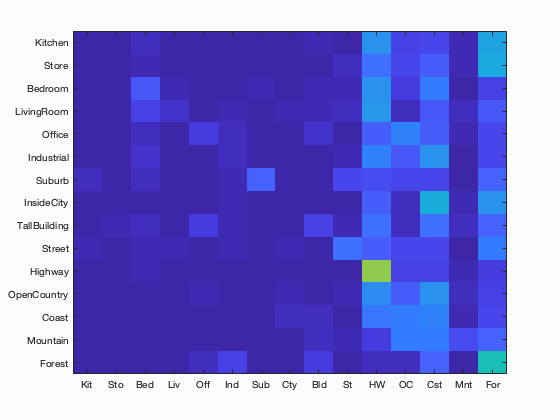
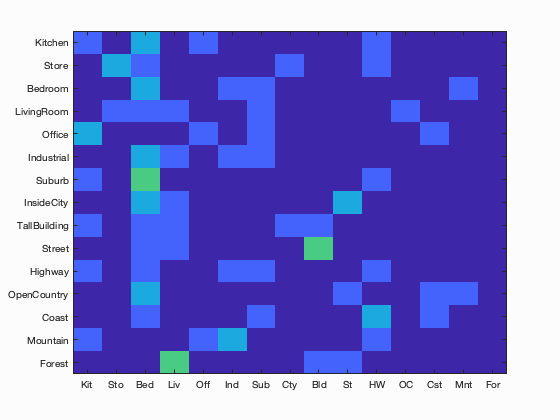
updating files

diff --git a/code/results_webpage/index.html b/code/results_webpage/index.html
@@ -36,7 +36,7 @@ h1 {
 <img src="confusion_matrix.png">
 
 <br>
-Accuracy (mean of diagonal of confusion matrix) is 0.176
+Accuracy (mean of diagonal of confusion matrix) is 0.147
 <p>
 
 <table border=0 cellpadding=4 cellspacing=1>
@@ -50,183 +50,183 @@ Accuracy (mean of diagonal of confusion matrix) is 0.176
 </tr>
 <tr>
 <td>Kitchen</td>
-<td>0.000</td>
-<td bgcolor=LightBlue><img src="thumbnails/Kitchen_image_0013.jpg" width=100 height=75></td>
-<td bgcolor=LightBlue><img src="thumbnails/Kitchen_image_0087.jpg" width=114 height=75></td>
+<td>0.200</td>
+<td bgcolor=LightBlue><img src="thumbnails/Kitchen_image_0004.jpg" width=100 height=75></td>
+<td bgcolor=LightBlue><img src="thumbnails/Kitchen_image_0005.jpg" width=100 height=75></td>
+<td bgcolor=LightGreen><img src="thumbnails/Kitchen_image_0003.jpg" width=100 height=75></td>
 <td bgcolor=LightGreen></td>
-<td bgcolor=LightGreen></td>
-<td bgcolor=LightCoral><img src="thumbnails/Street_image_0041.jpg" width=75 height=75><br><small>Street</small></td>
-<td bgcolor=LightCoral><img src="thumbnails/Suburb_image_0050.jpg" width=113 height=75><br><small>Suburb</small></td>
-<td bgcolor=#FFBB55><img src="thumbnails/Kitchen_image_0068.jpg" width=113 height=75><br><small>Coast</small></td>
-<td bgcolor=#FFBB55><img src="thumbnails/Kitchen_image_0002.jpg" width=100 height=75><br><small>Mountain</small></td>
+<td bgcolor=LightCoral><img src="thumbnails/Mountain_image_0004.jpg" width=75 height=75><br><small>Mountain</small></td>
+<td bgcolor=LightCoral><img src="thumbnails/Office_image_0001.jpg" width=101 height=75><br><small>Office</small></td>
+<td bgcolor=#FFBB55><img src="thumbnails/Kitchen_image_0002.jpg" width=100 height=75><br><small>Bedroom</small></td>
+<td bgcolor=#FFBB55><img src="thumbnails/Kitchen_image_0008.jpg" width=100 height=75><br><small>Office</small></td>
 </tr>
 <tr>
 <td>Store</td>
-<td>0.000</td>
-<td bgcolor=LightBlue><img src="thumbnails/Store_image_0101.jpg" width=100 height=75></td>
-<td bgcolor=LightBlue><img src="thumbnails/Store_image_0110.jpg" width=100 height=75></td>
-<td bgcolor=LightGreen></td>
-<td bgcolor=LightGreen></td>
-<td bgcolor=LightCoral><img src="thumbnails/TallBuilding_image_0048.jpg" width=75 height=75><br><small>TallBuilding</small></td>
+<td>0.400</td>
+<td bgcolor=LightBlue><img src="thumbnails/Store_image_0005.jpg" width=100 height=75></td>
+<td bgcolor=LightBlue><img src="thumbnails/Store_image_0001.jpg" width=100 height=75></td>
+<td bgcolor=LightGreen><img src="thumbnails/Store_image_0009.jpg" width=100 height=75></td>
+<td bgcolor=LightGreen><img src="thumbnails/Store_image_0002.jpg" width=100 height=75></td>
+<td bgcolor=LightCoral><img src="thumbnails/LivingRoom_image_0005.jpg" width=93 height=75><br><small>LivingRoom</small></td>
 <td bgcolor=LightCoral></td>
-<td bgcolor=#FFBB55><img src="thumbnails/Store_image_0002.jpg" width=100 height=75><br><small>OpenCountry</small></td>
-<td bgcolor=#FFBB55><img src="thumbnails/Store_image_0039.jpg" width=57 height=75><br><small>Forest</small></td>
+<td bgcolor=#FFBB55><img src="thumbnails/Store_image_0004.jpg" width=60 height=75><br><small>Bedroom</small></td>
+<td bgcolor=#FFBB55><img src="thumbnails/Store_image_0003.jpg" width=100 height=75><br><small>InsideCity</small></td>
 </tr>
 <tr>
 <td>Bedroom</td>
-<td>0.160</td>
-<td bgcolor=LightBlue><img src="thumbnails/Bedroom_image_0041.jpg" width=118 height=75></td>
-<td bgcolor=LightBlue><img src="thumbnails/Bedroom_image_0105.jpg" width=110 height=75></td>
-<td bgcolor=LightGreen><img src="thumbnails/Bedroom_image_0024.jpg" width=95 height=75></td>
-<td bgcolor=LightGreen><img src="thumbnails/Bedroom_image_0014.jpg" width=101 height=75></td>
-<td bgcolor=LightCoral><img src="thumbnails/Store_image_0068.jpg" width=100 height=75><br><small>Store</small></td>
-<td bgcolor=LightCoral><img src="thumbnails/Office_image_0037.jpg" width=108 height=75><br><small>Office</small></td>
-<td bgcolor=#FFBB55><img src="thumbnails/Bedroom_image_0052.jpg" width=103 height=75><br><small>Coast</small></td>
-<td bgcolor=#FFBB55><img src="thumbnails/Bedroom_image_0068.jpg" width=74 height=75><br><small>Highway</small></td>
+<td>0.400</td>
+<td bgcolor=LightBlue><img src="thumbnails/Bedroom_image_0001.jpg" width=101 height=75></td>
+<td bgcolor=LightBlue><img src="thumbnails/Bedroom_image_0005.jpg" width=93 height=75></td>
+<td bgcolor=LightGreen><img src="thumbnails/Bedroom_image_0007.jpg" width=101 height=75></td>
+<td bgcolor=LightGreen><img src="thumbnails/Bedroom_image_0006.jpg" width=113 height=75></td>
+<td bgcolor=LightCoral><img src="thumbnails/Kitchen_image_0009.jpg" width=100 height=75><br><small>Kitchen</small></td>
+<td bgcolor=LightCoral><img src="thumbnails/Coast_image_0004.jpg" width=75 height=75><br><small>Coast</small></td>
+<td bgcolor=#FFBB55><img src="thumbnails/Bedroom_image_0008.jpg" width=113 height=75><br><small>Mountain</small></td>
+<td bgcolor=#FFBB55><img src="thumbnails/Bedroom_image_0003.jpg" width=104 height=75><br><small>Industrial</small></td>
 </tr>
 <tr>
 <td>LivingRoom</td>
-<td>0.060</td>
-<td bgcolor=LightBlue><img src="thumbnails/LivingRoom_image_0091.jpg" width=110 height=75></td>
-<td bgcolor=LightBlue><img src="thumbnails/LivingRoom_image_0038.jpg" width=99 height=75></td>
-<td bgcolor=LightGreen><img src="thumbnails/LivingRoom_image_0024.jpg" width=100 height=75></td>
-<td bgcolor=LightGreen><img src="thumbnails/LivingRoom_image_0003.jpg" width=114 height=75></td>
-<td bgcolor=LightCoral><img src="thumbnails/Bedroom_image_0021.jpg" width=113 height=75><br><small>Bedroom</small></td>
-<td bgcolor=LightCoral><img src="thumbnails/Street_image_0046.jpg" width=75 height=75><br><small>Street</small></td>
-<td bgcolor=#FFBB55><img src="thumbnails/LivingRoom_image_0050.jpg" width=107 height=75><br><small>Coast</small></td>
-<td bgcolor=#FFBB55><img src="thumbnails/LivingRoom_image_0037.jpg" width=113 height=75><br><small>Highway</small></td>
+<td>0.200</td>
+<td bgcolor=LightBlue><img src="thumbnails/LivingRoom_image_0006.jpg" width=113 height=75></td>
+<td bgcolor=LightBlue><img src="thumbnails/LivingRoom_image_0012.jpg" width=101 height=75></td>
+<td bgcolor=LightGreen><img src="thumbnails/LivingRoom_image_0002.jpg" width=100 height=75></td>
+<td bgcolor=LightGreen></td>
+<td bgcolor=LightCoral><img src="thumbnails/Street_image_0010.jpg" width=75 height=75><br><small>Street</small></td>
+<td bgcolor=LightCoral><img src="thumbnails/Forest_image_0001.jpg" width=75 height=75><br><small>Forest</small></td>
+<td bgcolor=#FFBB55><img src="thumbnails/LivingRoom_image_0005.jpg" width=93 height=75><br><small>Store</small></td>
+<td bgcolor=#FFBB55><img src="thumbnails/LivingRoom_image_0003.jpg" width=114 height=75><br><small>Bedroom</small></td>
 </tr>
 <tr>
 <td>Office</td>
-<td>0.080</td>
-<td bgcolor=LightBlue><img src="thumbnails/Office_image_0031.jpg" width=96 height=75></td>
-<td bgcolor=LightBlue><img src="thumbnails/Office_image_0042.jpg" width=118 height=75></td>
-<td bgcolor=LightGreen><img src="thumbnails/Office_image_0022.jpg" width=102 height=75></td>
-<td bgcolor=LightGreen><img src="thumbnails/Office_image_0023.jpg" width=90 height=75></td>
-<td bgcolor=LightCoral><img src="thumbnails/TallBuilding_image_0004.jpg" width=75 height=75><br><small>TallBuilding</small></td>
-<td bgcolor=LightCoral><img src="thumbnails/TallBuilding_image_0059.jpg" width=75 height=75><br><small>TallBuilding</small></td>
-<td bgcolor=#FFBB55><img src="thumbnails/Office_image_0044.jpg" width=100 height=75><br><small>Highway</small></td>
-<td bgcolor=#FFBB55><img src="thumbnails/Office_image_0071.jpg" width=104 height=75><br><small>OpenCountry</small></td>
+<td>0.200</td>
+<td bgcolor=LightBlue><img src="thumbnails/Office_image_0008.jpg" width=130 height=75></td>
+<td bgcolor=LightBlue><img src="thumbnails/Office_image_0013.jpg" width=92 height=75></td>
+<td bgcolor=LightGreen><img src="thumbnails/Office_image_0005.jpg" width=126 height=75></td>
+<td bgcolor=LightGreen></td>
+<td bgcolor=LightCoral><img src="thumbnails/Mountain_image_0005.jpg" width=75 height=75><br><small>Mountain</small></td>
+<td bgcolor=LightCoral><img src="thumbnails/Kitchen_image_0008.jpg" width=100 height=75><br><small>Kitchen</small></td>
+<td bgcolor=#FFBB55><img src="thumbnails/Office_image_0004.jpg" width=118 height=75><br><small>Coast</small></td>
+<td bgcolor=#FFBB55><img src="thumbnails/Office_image_0001.jpg" width=101 height=75><br><small>Kitchen</small></td>
 </tr>
 <tr>
 <td>Industrial</td>
-<td>0.040</td>
-<td bgcolor=LightBlue><img src="thumbnails/Industrial_image_0086.jpg" width=112 height=75></td>
-<td bgcolor=LightBlue><img src="thumbnails/Industrial_image_0051.jpg" width=94 height=75></td>
-<td bgcolor=LightGreen><img src="thumbnails/Industrial_image_0035.jpg" width=77 height=75></td>
-<td bgcolor=LightGreen><img src="thumbnails/Industrial_image_0026.jpg" width=97 height=75></td>
-<td bgcolor=LightCoral><img src="thumbnails/LivingRoom_image_0025.jpg" width=57 height=76><br><small>LivingRoom</small></td>
-<td bgcolor=LightCoral><img src="thumbnails/Forest_image_0035.jpg" width=75 height=75><br><small>Forest</small></td>
-<td bgcolor=#FFBB55><img src="thumbnails/Industrial_image_0032.jpg" width=100 height=75><br><small>Coast</small></td>
-<td bgcolor=#FFBB55><img src="thumbnails/Industrial_image_0040.jpg" width=135 height=75><br><small>Coast</small></td>
+<td>0.200</td>
+<td bgcolor=LightBlue><img src="thumbnails/Industrial_image_0011.jpg" width=50 height=75></td>
+<td bgcolor=LightBlue><img src="thumbnails/Industrial_image_0010.jpg" width=117 height=75></td>
+<td bgcolor=LightGreen><img src="thumbnails/Industrial_image_0006.jpg" width=114 height=75></td>
+<td bgcolor=LightGreen></td>
+<td bgcolor=LightCoral><img src="thumbnails/Mountain_image_0001.jpg" width=75 height=75><br><small>Mountain</small></td>
+<td bgcolor=LightCoral><img src="thumbnails/Mountain_image_0006.jpg" width=75 height=75><br><small>Mountain</small></td>
+<td bgcolor=#FFBB55><img src="thumbnails/Industrial_image_0003.jpg" width=50 height=75><br><small>Bedroom</small></td>
+<td bgcolor=#FFBB55><img src="thumbnails/Industrial_image_0007.jpg" width=117 height=75><br><small>Suburb</small></td>
 </tr>
 <tr>
 <td>Suburb</td>
-<td>0.200</td>
-<td bgcolor=LightBlue><img src="thumbnails/Suburb_image_0035.jpg" width=113 height=75></td>
-<td bgcolor=LightBlue><img src="thumbnails/Suburb_image_0049.jpg" width=113 height=75></td>
-<td bgcolor=LightGreen><img src="thumbnails/Suburb_image_0045.jpg" width=113 height=75></td>
-<td bgcolor=LightGreen><img src="thumbnails/Suburb_image_0046.jpg" width=113 height=75></td>
-<td bgcolor=LightCoral><img src="thumbnails/Bedroom_image_0082.jpg" width=121 height=75><br><small>Bedroom</small></td>
-<td bgcolor=LightCoral></td>
-<td bgcolor=#FFBB55><img src="thumbnails/Suburb_image_0059.jpg" width=113 height=75><br><small>Street</small></td>
-<td bgcolor=#FFBB55><img src="thumbnails/Suburb_image_0024.jpg" width=113 height=75><br><small>OpenCountry</small></td>
+<td>0.000</td>
+<td bgcolor=LightBlue><img src="thumbnails/Suburb_image_0010.jpg" width=113 height=75></td>
+<td bgcolor=LightBlue><img src="thumbnails/Suburb_image_0006.jpg" width=113 height=75></td>
+<td bgcolor=LightGreen></td>
+<td bgcolor=LightGreen></td>
+<td bgcolor=LightCoral><img src="thumbnails/Coast_image_0002.jpg" width=75 height=75><br><small>Coast</small></td>
+<td bgcolor=LightCoral><img src="thumbnails/Bedroom_image_0004.jpg" width=101 height=75><br><small>Bedroom</small></td>
+<td bgcolor=#FFBB55><img src="thumbnails/Suburb_image_0004.jpg" width=113 height=75><br><small>Bedroom</small></td>
+<td bgcolor=#FFBB55><img src="thumbnails/Suburb_image_0001.jpg" width=113 height=75><br><small>Kitchen</small></td>
 </tr>
 <tr>
 <td>InsideCity</td>
 <td>0.000</td>
-<td bgcolor=LightBlue><img src="thumbnails/InsideCity_image_0120.jpg" width=75 height=75></td>
-<td bgcolor=LightBlue><img src="thumbnails/InsideCity_image_0154.jpg" width=75 height=75></td>
+<td bgcolor=LightBlue><img src="thumbnails/InsideCity_image_0009.jpg" width=75 height=75></td>
+<td bgcolor=LightBlue><img src="thumbnails/InsideCity_image_0018.jpg" width=75 height=75></td>
 <td bgcolor=LightGreen></td>
 <td bgcolor=LightGreen></td>
-<td bgcolor=LightCoral><img src="thumbnails/LivingRoom_image_0072.jpg" width=100 height=75><br><small>LivingRoom</small></td>
-<td bgcolor=LightCoral><img src="thumbnails/OpenCountry_image_0023.jpg" width=75 height=75><br><small>OpenCountry</small></td>
-<td bgcolor=#FFBB55><img src="thumbnails/InsideCity_image_0061.jpg" width=75 height=75><br><small>Coast</small></td>
-<td bgcolor=#FFBB55><img src="thumbnails/InsideCity_image_0002.jpg" width=75 height=75><br><small>Forest</small></td>
+<td bgcolor=LightCoral><img src="thumbnails/Store_image_0003.jpg" width=100 height=75><br><small>Store</small></td>
+<td bgcolor=LightCoral><img src="thumbnails/TallBuilding_image_0005.jpg" width=75 height=75><br><small>TallBuilding</small></td>
+<td bgcolor=#FFBB55><img src="thumbnails/InsideCity_image_0003.jpg" width=75 height=75><br><small>Bedroom</small></td>
+<td bgcolor=#FFBB55><img src="thumbnails/InsideCity_image_0006.jpg" width=75 height=75><br><small>Bedroom</small></td>
 </tr>
 <tr>
 <td>TallBuilding</td>
-<td>0.100</td>
-<td bgcolor=LightBlue><img src="thumbnails/TallBuilding_image_0132.jpg" width=75 height=75></td>
-<td bgcolor=LightBlue><img src="thumbnails/TallBuilding_image_0060.jpg" width=75 height=75></td>
-<td bgcolor=LightGreen><img src="thumbnails/TallBuilding_image_0044.jpg" width=75 height=75></td>
-<td bgcolor=LightGreen><img src="thumbnails/TallBuilding_image_0037.jpg" width=75 height=75></td>
-<td bgcolor=LightCoral><img src="thumbnails/Forest_image_0017.jpg" width=75 height=75><br><small>Forest</small></td>
-<td bgcolor=LightCoral><img src="thumbnails/Forest_image_0010.jpg" width=75 height=75><br><small>Forest</small></td>
-<td bgcolor=#FFBB55><img src="thumbnails/TallBuilding_image_0005.jpg" width=75 height=75><br><small>Forest</small></td>
-<td bgcolor=#FFBB55><img src="thumbnails/TallBuilding_image_0003.jpg" width=75 height=75><br><small>Industrial</small></td>
+<td>0.200</td>
+<td bgcolor=LightBlue><img src="thumbnails/TallBuilding_image_0014.jpg" width=75 height=75></td>
+<td bgcolor=LightBlue><img src="thumbnails/TallBuilding_image_0020.jpg" width=75 height=75></td>
+<td bgcolor=LightGreen><img src="thumbnails/TallBuilding_image_0003.jpg" width=75 height=75></td>
+<td bgcolor=LightGreen></td>
+<td bgcolor=LightCoral><img src="thumbnails/Street_image_0006.jpg" width=75 height=75><br><small>Street</small></td>
+<td bgcolor=LightCoral><img src="thumbnails/Forest_image_0005.jpg" width=75 height=75><br><small>Forest</small></td>
+<td bgcolor=#FFBB55><img src="thumbnails/TallBuilding_image_0001.jpg" width=75 height=75><br><small>LivingRoom</small></td>
+<td bgcolor=#FFBB55><img src="thumbnails/TallBuilding_image_0005.jpg" width=75 height=75><br><small>InsideCity</small></td>
 </tr>
 <tr>
 <td>Street</td>
-<td>0.220</td>
-<td bgcolor=LightBlue><img src="thumbnails/Street_image_0029.jpg" width=75 height=75></td>
-<td bgcolor=LightBlue><img src="thumbnails/Street_image_0075.jpg" width=75 height=75></td>
-<td bgcolor=LightGreen><img src="thumbnails/Street_image_0032.jpg" width=75 height=75></td>
-<td bgcolor=LightGreen><img src="thumbnails/Street_image_0014.jpg" width=75 height=75></td>
-<td bgcolor=LightCoral><img src="thumbnails/Mountain_image_0037.jpg" width=75 height=75><br><small>Mountain</small></td>
-<td bgcolor=LightCoral><img src="thumbnails/Suburb_image_0013.jpg" width=113 height=75><br><small>Suburb</small></td>
-<td bgcolor=#FFBB55><img src="thumbnails/Street_image_0018.jpg" width=75 height=75><br><small>Coast</small></td>
-<td bgcolor=#FFBB55><img src="thumbnails/Street_image_0050.jpg" width=75 height=75><br><small>Highway</small></td>
+<td>0.000</td>
+<td bgcolor=LightBlue><img src="thumbnails/Street_image_0003.jpg" width=75 height=75></td>
+<td bgcolor=LightBlue><img src="thumbnails/Street_image_0005.jpg" width=75 height=75></td>
+<td bgcolor=LightGreen></td>
+<td bgcolor=LightGreen></td>
+<td bgcolor=LightCoral><img src="thumbnails/Forest_image_0007.jpg" width=75 height=75><br><small>Forest</small></td>
+<td bgcolor=LightCoral><img src="thumbnails/InsideCity_image_0001.jpg" width=75 height=75><br><small>InsideCity</small></td>
+<td bgcolor=#FFBB55><img src="thumbnails/Street_image_0012.jpg" width=75 height=75><br><small>Bedroom</small></td>
+<td bgcolor=#FFBB55><img src="thumbnails/Street_image_0010.jpg" width=75 height=75><br><small>LivingRoom</small></td>
 </tr>
 <tr>
 <td>Highway</td>
-<td>0.680</td>
-<td bgcolor=LightBlue><img src="thumbnails/Highway_image_0113.jpg" width=75 height=75></td>
-<td bgcolor=LightBlue><img src="thumbnails/Highway_image_0111.jpg" width=75 height=75></td>
-<td bgcolor=LightGreen><img src="thumbnails/Highway_image_0063.jpg" width=75 height=75></td>
-<td bgcolor=LightGreen><img src="thumbnails/Highway_image_0040.jpg" width=75 height=75></td>
-<td bgcolor=LightCoral><img src="thumbnails/Bedroom_image_0049.jpg" width=101 height=75><br><small>Bedroom</small></td>
-<td bgcolor=LightCoral><img src="thumbnails/Industrial_image_0067.jpg" width=110 height=75><br><small>Industrial</small></td>
-<td bgcolor=#FFBB55><img src="thumbnails/Highway_image_0002.jpg" width=75 height=75><br><small>Mountain</small></td>
-<td bgcolor=#FFBB55><img src="thumbnails/Highway_image_0017.jpg" width=75 height=75><br><small>OpenCountry</small></td>
+<td>0.200</td>
+<td bgcolor=LightBlue><img src="thumbnails/Highway_image_0012.jpg" width=75 height=75></td>
+<td bgcolor=LightBlue><img src="thumbnails/Highway_image_0010.jpg" width=75 height=75></td>
+<td bgcolor=LightGreen><img src="thumbnails/Highway_image_0004.jpg" width=75 height=75></td>
+<td bgcolor=LightGreen></td>
+<td bgcolor=LightCoral><img src="thumbnails/Store_image_0008.jpg" width=89 height=75><br><small>Store</small></td>
+<td bgcolor=LightCoral><img src="thumbnails/Suburb_image_0008.jpg" width=113 height=75><br><small>Suburb</small></td>
+<td bgcolor=#FFBB55><img src="thumbnails/Highway_image_0001.jpg" width=75 height=75><br><small>Kitchen</small></td>
+<td bgcolor=#FFBB55><img src="thumbnails/Highway_image_0002.jpg" width=75 height=75><br><small>Industrial</small></td>
 </tr>
 <tr>
 <td>OpenCountry</td>
-<td>0.180</td>
-<td bgcolor=LightBlue><img src="thumbnails/OpenCountry_image_0099.jpg" width=75 height=75></td>
-<td bgcolor=LightBlue><img src="thumbnails/OpenCountry_image_0187.jpg" width=75 height=75></td>
-<td bgcolor=LightGreen><img src="thumbnails/OpenCountry_image_0012.jpg" width=75 height=75></td>
-<td bgcolor=LightGreen><img src="thumbnails/OpenCountry_image_0037.jpg" width=75 height=75></td>
-<td bgcolor=LightCoral><img src="thumbnails/Coast_image_0062.jpg" width=75 height=75><br><small>Coast</small></td>
-<td bgcolor=LightCoral><img src="thumbnails/Industrial_image_0007.jpg" width=117 height=75><br><small>Industrial</small></td>
-<td bgcolor=#FFBB55><img src="thumbnails/OpenCountry_image_0031.jpg" width=75 height=75><br><small>Forest</small></td>
-<td bgcolor=#FFBB55><img src="thumbnails/OpenCountry_image_0015.jpg" width=75 height=75><br><small>Highway</small></td>
+<td>0.000</td>
+<td bgcolor=LightBlue><img src="thumbnails/OpenCountry_image_0003.jpg" width=75 height=75></td>
+<td bgcolor=LightBlue><img src="thumbnails/OpenCountry_image_0020.jpg" width=75 height=75></td>
+<td bgcolor=LightGreen></td>
+<td bgcolor=LightGreen></td>
+<td bgcolor=LightCoral><img src="thumbnails/LivingRoom_image_0007.jpg" width=109 height=75><br><small>LivingRoom</small></td>
+<td bgcolor=LightCoral></td>
+<td bgcolor=#FFBB55><img src="thumbnails/OpenCountry_image_0006.jpg" width=75 height=75><br><small>Coast</small></td>
+<td bgcolor=#FFBB55><img src="thumbnails/OpenCountry_image_0004.jpg" width=75 height=75><br><small>Mountain</small></td>
 </tr>
 <tr>
 <td>Coast</td>
-<td>0.280</td>
-<td bgcolor=LightBlue><img src="thumbnails/Coast_image_0108.jpg" width=75 height=75></td>
-<td bgcolor=LightBlue><img src="thumbnails/Coast_image_0091.jpg" width=75 height=75></td>
-<td bgcolor=LightGreen><img src="thumbnails/Coast_image_0057.jpg" width=75 height=75></td>
-<td bgcolor=LightGreen><img src="thumbnails/Coast_image_0040.jpg" width=75 height=75></td>
-<td bgcolor=LightCoral><img src="thumbnails/InsideCity_image_0033.jpg" width=75 height=75><br><small>InsideCity</small></td>
-<td bgcolor=LightCoral><img src="thumbnails/Office_image_0009.jpg" width=120 height=75><br><small>Office</small></td>
-<td bgcolor=#FFBB55><img src="thumbnails/Coast_image_0049.jpg" width=75 height=75><br><small>OpenCountry</small></td>
-<td bgcolor=#FFBB55><img src="thumbnails/Coast_image_0045.jpg" width=75 height=75><br><small>OpenCountry</small></td>
+<td>0.200</td>
+<td bgcolor=LightBlue><img src="thumbnails/Coast_image_0010.jpg" width=75 height=75></td>
+<td bgcolor=LightBlue><img src="thumbnails/Coast_image_0015.jpg" width=75 height=75></td>
+<td bgcolor=LightGreen><img src="thumbnails/Coast_image_0003.jpg" width=75 height=75></td>
+<td bgcolor=LightGreen></td>
+<td bgcolor=LightCoral><img src="thumbnails/OpenCountry_image_0006.jpg" width=75 height=75><br><small>OpenCountry</small></td>
+<td bgcolor=LightCoral><img src="thumbnails/Office_image_0004.jpg" width=118 height=75><br><small>Office</small></td>
+<td bgcolor=#FFBB55><img src="thumbnails/Coast_image_0005.jpg" width=75 height=75><br><small>Highway</small></td>
+<td bgcolor=#FFBB55><img src="thumbnails/Coast_image_0002.jpg" width=75 height=75><br><small>Suburb</small></td>
 </tr>
 <tr>
 <td>Mountain</td>
-<td>0.140</td>
-<td bgcolor=LightBlue><img src="thumbnails/Mountain_image_0044.jpg" width=75 height=75></td>
-<td bgcolor=LightBlue><img src="thumbnails/Mountain_image_0078.jpg" width=75 height=75></td>
-<td bgcolor=LightGreen><img src="thumbnails/Mountain_image_0025.jpg" width=75 height=75></td>
-<td bgcolor=LightGreen><img src="thumbnails/Mountain_image_0062.jpg" width=75 height=75></td>
-<td bgcolor=LightCoral><img src="thumbnails/TallBuilding_image_0023.jpg" width=75 height=75><br><small>TallBuilding</small></td>
-<td bgcolor=LightCoral><img src="thumbnails/Highway_image_0002.jpg" width=75 height=75><br><small>Highway</small></td>
-<td bgcolor=#FFBB55><img src="thumbnails/Mountain_image_0034.jpg" width=75 height=75><br><small>Highway</small></td>
-<td bgcolor=#FFBB55><img src="thumbnails/Mountain_image_0046.jpg" width=75 height=75><br><small>Coast</small></td>
+<td>0.000</td>
+<td bgcolor=LightBlue><img src="thumbnails/Mountain_image_0002.jpg" width=75 height=75></td>
+<td bgcolor=LightBlue><img src="thumbnails/Mountain_image_0024.jpg" width=75 height=75></td>
+<td bgcolor=LightGreen></td>
+<td bgcolor=LightGreen></td>
+<td bgcolor=LightCoral><img src="thumbnails/Bedroom_image_0008.jpg" width=113 height=75><br><small>Bedroom</small></td>
+<td bgcolor=LightCoral><img src="thumbnails/OpenCountry_image_0004.jpg" width=75 height=75><br><small>OpenCountry</small></td>
+<td bgcolor=#FFBB55><img src="thumbnails/Mountain_image_0003.jpg" width=75 height=75><br><small>Highway</small></td>
+<td bgcolor=#FFBB55><img src="thumbnails/Mountain_image_0001.jpg" width=75 height=75><br><small>Industrial</small></td>
 </tr>
 <tr>
 <td>Forest</td>
-<td>0.500</td>
-<td bgcolor=LightBlue><img src="thumbnails/Forest_image_0020.jpg" width=75 height=75></td>
-<td bgcolor=LightBlue><img src="thumbnails/Forest_image_0054.jpg" width=75 height=75></td>
-<td bgcolor=LightGreen><img src="thumbnails/Forest_image_0056.jpg" width=75 height=75></td>
-<td bgcolor=LightGreen><img src="thumbnails/Forest_image_0069.jpg" width=75 height=75></td>
-<td bgcolor=LightCoral><img src="thumbnails/Coast_image_0039.jpg" width=75 height=75><br><small>Coast</small></td>
-<td bgcolor=LightCoral><img src="thumbnails/Street_image_0008.jpg" width=75 height=75><br><small>Street</small></td>
-<td bgcolor=#FFBB55><img src="thumbnails/Forest_image_0030.jpg" width=75 height=75><br><small>Highway</small></td>
-<td bgcolor=#FFBB55><img src="thumbnails/Forest_image_0018.jpg" width=75 height=75><br><small>Coast</small></td>
+<td>0.000</td>
+<td bgcolor=LightBlue><img src="thumbnails/Forest_image_0006.jpg" width=75 height=75></td>
+<td bgcolor=LightBlue><img src="thumbnails/Forest_image_0015.jpg" width=75 height=75></td>
+<td bgcolor=LightGreen></td>
+<td bgcolor=LightGreen></td>
+<td bgcolor=LightCoral></td>
+<td bgcolor=LightCoral></td>
+<td bgcolor=#FFBB55><img src="thumbnails/Forest_image_0008.jpg" width=75 height=75><br><small>LivingRoom</small></td>
+<td bgcolor=#FFBB55><img src="thumbnails/Forest_image_0005.jpg" width=75 height=75><br><small>TallBuilding</small></td>
 </tr>
 <tr>
 <th>Category name</th>

diff --git a/code/LAB3_task2.m b/code/LAB3_task2.m
@@ -12,13 +12,17 @@ num_train_per_cat = 50/10; % you can use smaller size of data set for debugging
 
 fprintf('Getting paths and labels for all train and test data\n')
 [train_image_paths, test_image_paths, train_labels, test_labels]=get_image_paths(data_path, categories, num_train_per_cat);  
+%train_image_paths=train_image_paths(1:2);
+%test_image_paths=test_image_paths(1:2);
+%train_labels=train_labels(1:2); 
+%test_labels = test_labels(1:2);
 
 %% Step 1: Represent each image with bag of words
 fprintf('Using Bag of words representation for images\n') 
 if ~exist('vocab.mat', 'file')
       fprintf('No existing visual word vocabulary found. Computing one from training images\n')
       
-      num_words = 800/8; %Larger values will work better (to a point) but be slower to compute
+      num_words = 800; %Larger values will work better (to a point) but be slower to compute
       
       vocab = codebook(train_image_paths, num_words);
       save('vocab.mat', 'vocab');

diff --git a/code/codebook2.m b/code/codebook2.m
@@ -1,0 +1,23 @@
+
+function dictionary = codebook(image_paths,num_of_words)
+fprintf('\nvocabulary\n');
+num = size(image_paths,1);
+container = [];
+step_p = 30;
+binSize = 20;
+for i = 1:num
+    img = single(imread(image_paths{i}));
+    input_img = vl_imsmooth(img, 0.5);
+    [~, sift_features] = vl_dsift(input_img,'Step',step_p,'size', binSize,'fast');
+    %sift_features = vl_phow(img,'fast','true');
+    container = [container;(single(sift_features'))];
+    if mod(i,30) == 0
+        fprintf('\n image %d \n',i);
+    end
+end
+
+
+fprintf('\nstart to building vocaulary\n')
+dictionary = vl_kmeans(container',num_of_words);
+fprintf('\nfinish building vocaulary\n')
+

diff --git a/code/bags_of_words.m b/code/bags_of_words.m
@@ -2,11 +2,16 @@ function bag = bags_of_words(train_image_paths,vocab)
 
 run ../vlfeat-0.9.21/toolbox/vl_setup
 
+bag = zeros(size(train_image_paths,1),size(vocab,2));
+step_p = 30;
+binSize = 20;
 num = size(train_image_paths,1);
 for i = 1:num
     in_image = imread(train_image_paths{i});
     in_image = single(in_image);
-    [~, descriptor] = vl_dsift(in_image); % vl_sift(in_image);
+    [~, descriptor] = vl_dsift(in_image,'Step',step_p,'size', binSize,'fast');%(in_image, 'fast'); % vl_sift(in_image);
     d = vl_alldist2(double(vocab), double(descriptor));
-    d;
+    [~,min_index] = min(d);
+    h = hist(min_index,size(vocab,2));
+    bag(i,:) = h;
 end
